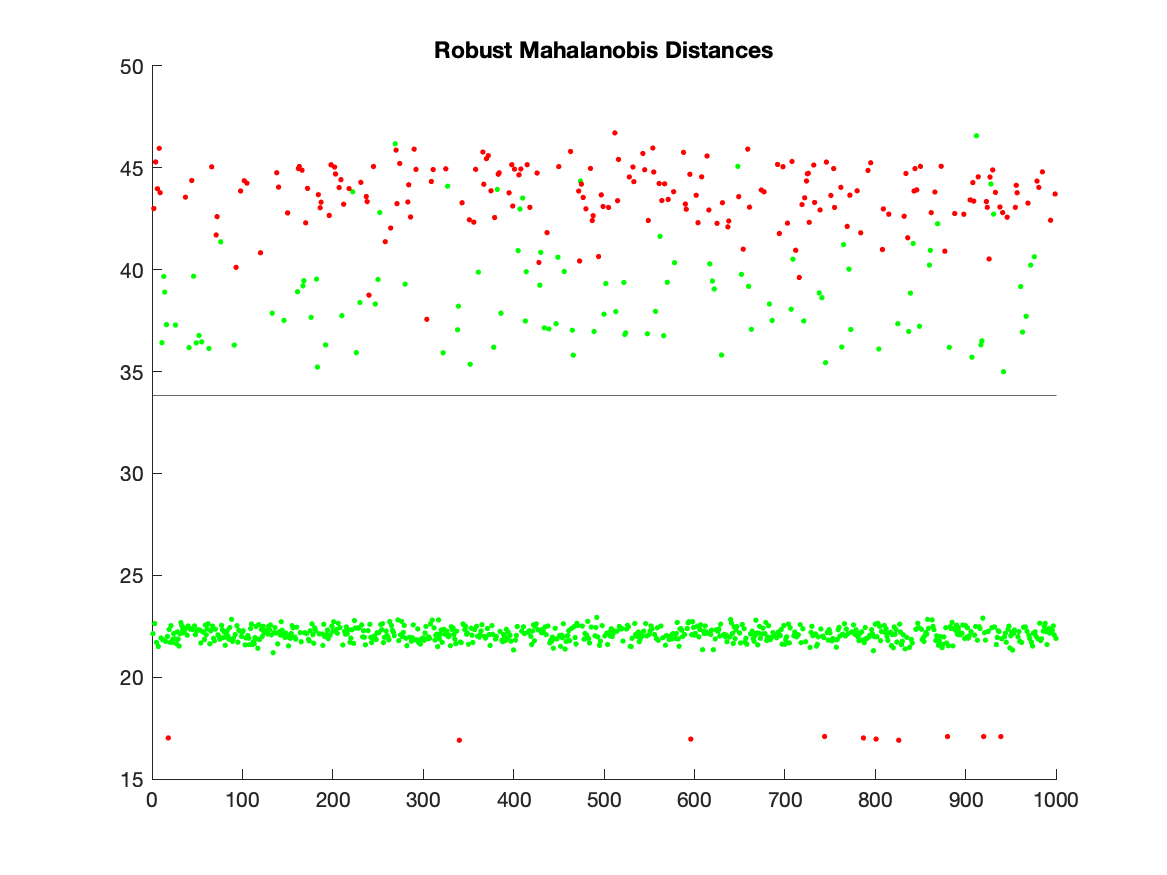
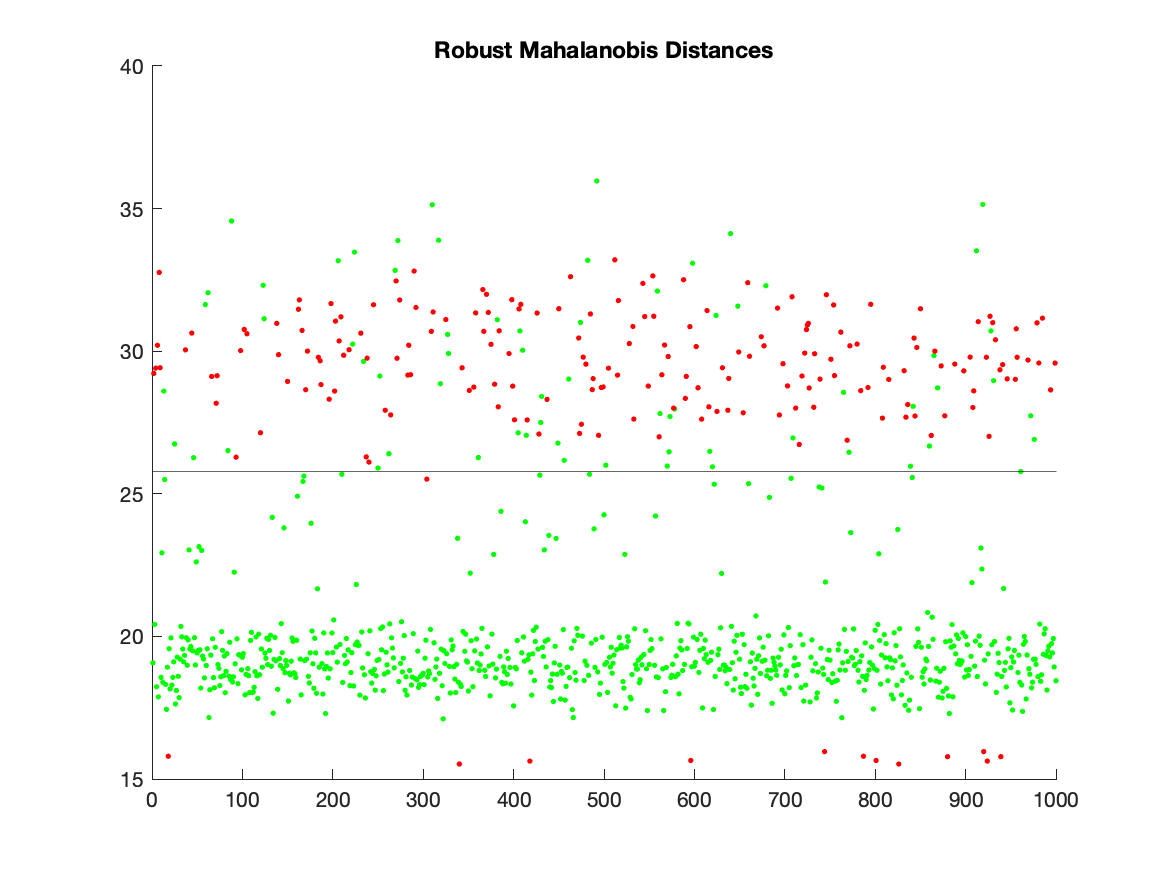
also use sigma squared in sphere kernel

diff --git a/kernels/AutoSphereRbfKernel.m b/kernels/AutoSphereRbfKernel.m
@@ -27,7 +27,7 @@ classdef AutoSphereRbfKernel < handle
             % K(x,y) = k(x*y) = exp(-2/s*(1-x*y))
             
             K = 1 - (Xtrain * Xtest');
-            K = exp(-(2/this.sigma) * K);
+            K = exp(-(2/this.sigma^2) * K);
         end
     end
     
